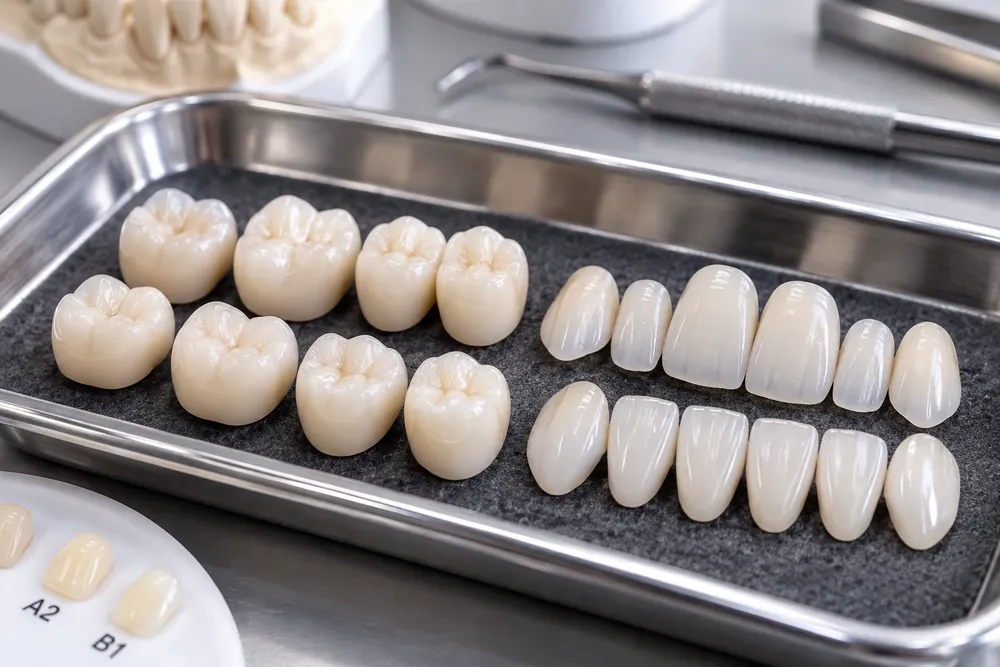
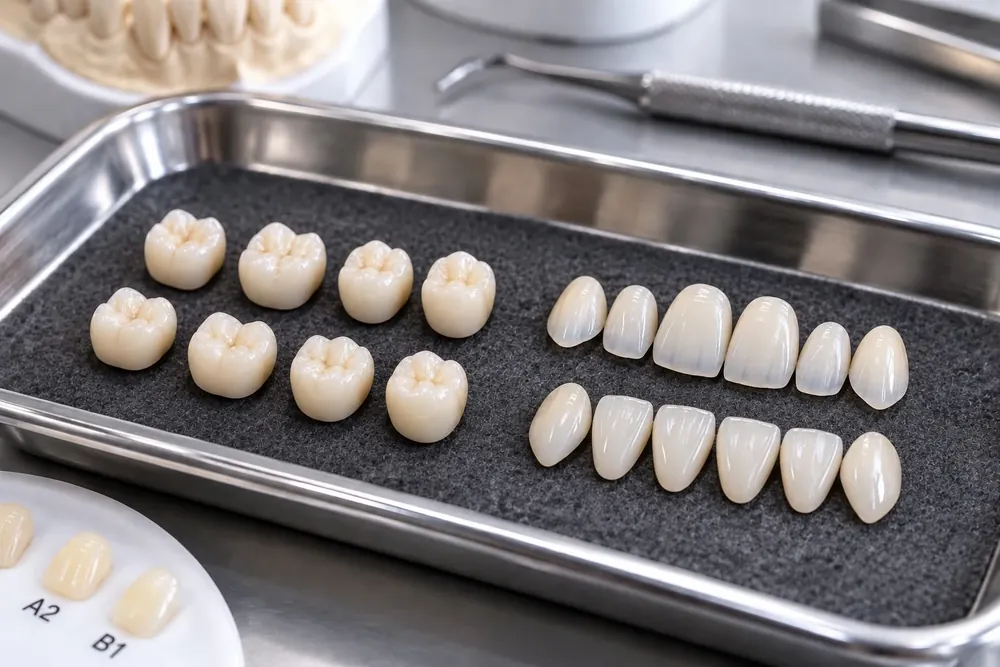
Some images added

Changed region(s): [[0.0, 0.2699, 1.0, 0.8396]]

diff --git a/en/packages/porcelain-veneers-costa-rica-package.html b/en/packages/porcelain-veneers-costa-rica-package.html
@@ -550,9 +550,15 @@
     <!-- ============================================================ -->
     <section class="scroll-mt-24 bg-[#F4FAFF] py-16 2xl:py-24">
       <div class="mx-auto max-w-[1920px] px-4 sm:px-6 lg:px-8">
-        <div class="text-center">
-          <span class="badge">What's Included</span>
-          <h2 class="mt-4 text-3xl font-bold sm:text-4xl 2xl:text-5xl">Package Includes</h2>
+        <div class="split">
+          <div class="split-copy">
+            <span class="badge">What's Included</span>
+            <h2 class="mt-4 text-3xl font-bold sm:text-4xl 2xl:text-5xl">Your Porcelain Veneers Costa Rica Package Includes</h2>
+            <p class="copy-justified mt-6 text-ink">Everything on this list is already inside the package price—the clinical work, the laboratory work, and the logistics around both.</p>
+          </div>
+          <div class="split-media">
+            <img loading="lazy" decoding="async" width="1200" height="675" src="../../assets/img/esthetic-dent/packages/veneers-package-includes.webp" alt="Everything included in the Esthetic Dent porcelain veneer package in Costa Rica" class="aspect-[831/490] w-full object-cover">
+          </div>
         </div>
                 <div class="mx-auto mt-12 max-w-[1100px] space-y-4">
           <details class="includes-group rounded-2xl border border-navy/10 bg-white shadow-card" open>
